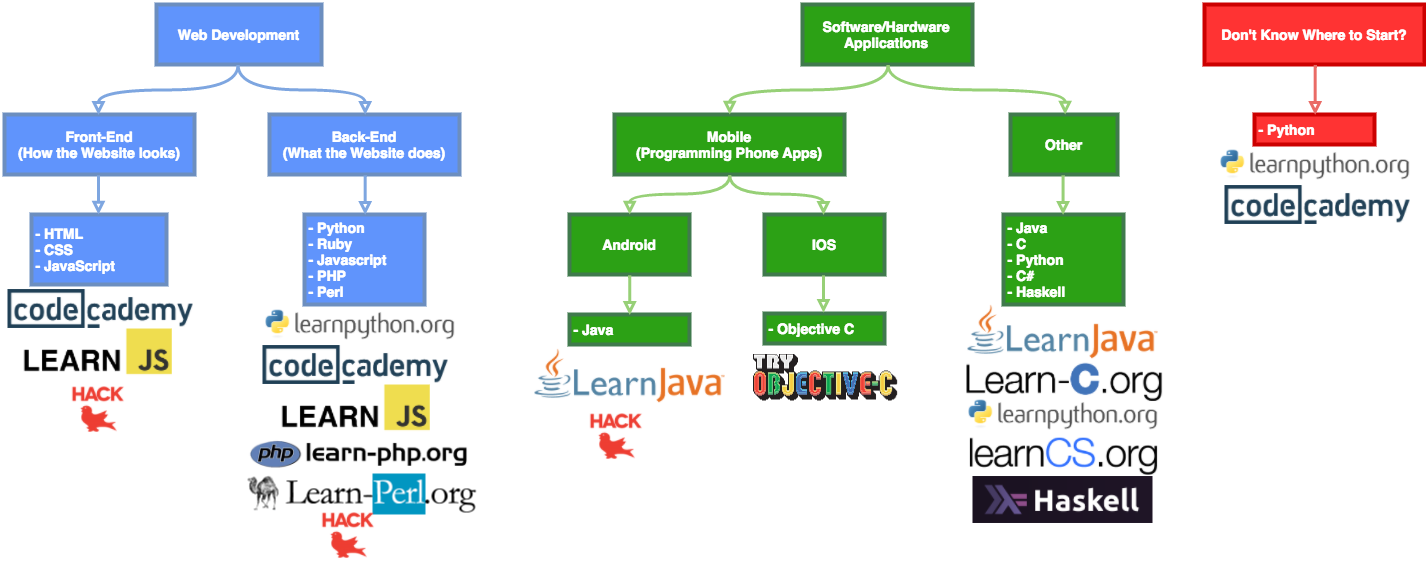
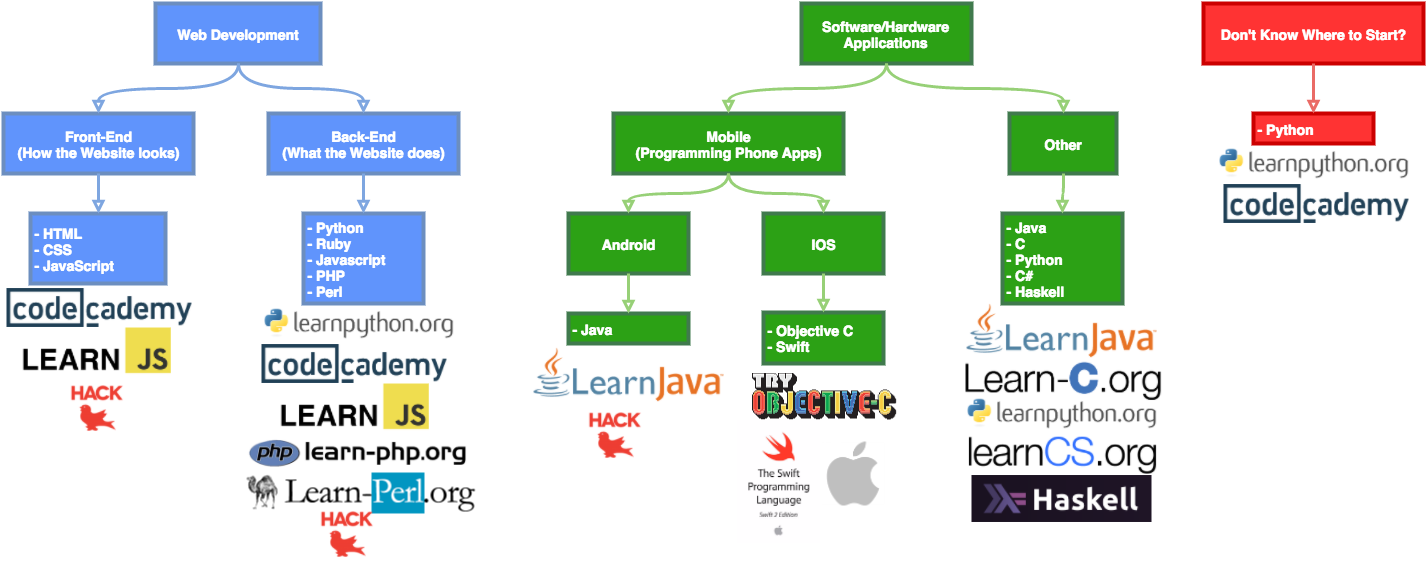
added swift, and swift links

diff --git a/README.md b/README.md
@@ -38,6 +38,11 @@ All of the resources for Learn to Code™
 
 - <a href="http://tryobjectivec.codeschool.com/"><img src="http://tryobjectivec.codeschool.com/assets/logo-course-8f54fa0be6e698f78bc2766bab61032a.svg" "style: width=100px"></a>(http://tryobjectivec.codeschool.com/)
 
+- <a href-"https://itunes.apple.com/us/book/swift-programming-language/id881256329?mt=11&ign-mpt=uo%3D8">
+<img src="http://a2.mzstatic.com/us/r30/Publication6/v4/78/06/ea/7806ea2b-20f5-3449-4b08-2136edf3af2a/cover450x450.jpeg" "style: width=75px"></a>(https://itunes.apple.com/us/book/swift-programming-language/id881256329?mt=11&ign-mpt=uo%3D8)
+
+- <a href="https://developer.apple.com/library/prerelease/ios/referencelibrary/GettingStarted/DevelopiOSAppsSwift/"><img src="http://cdn.macrumors.com/article-new/2015/02/Apple-Logo.png?retina" "style: width= 50px"></a>(https://developer.apple.com/library/prerelease/ios/referencelibrary/GettingStarted/DevelopiOSAppsSwift/)
+
 - <a href="https://github.com/hack101"><img src="https://avatars2.githubusercontent.com/u/8978217?v=3&s=200" "style: width=50px"></a>
 (https://github.com/hack101)
 
